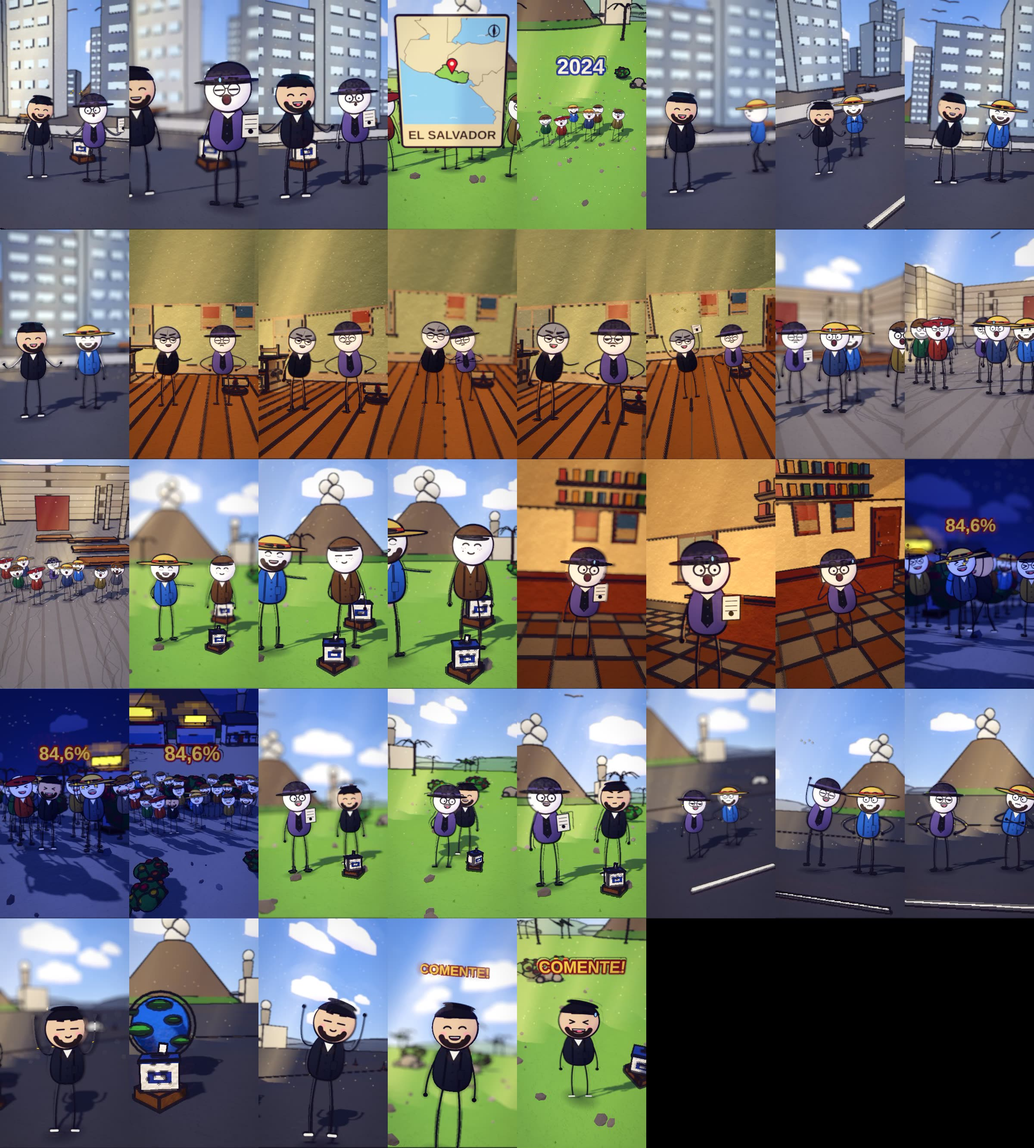
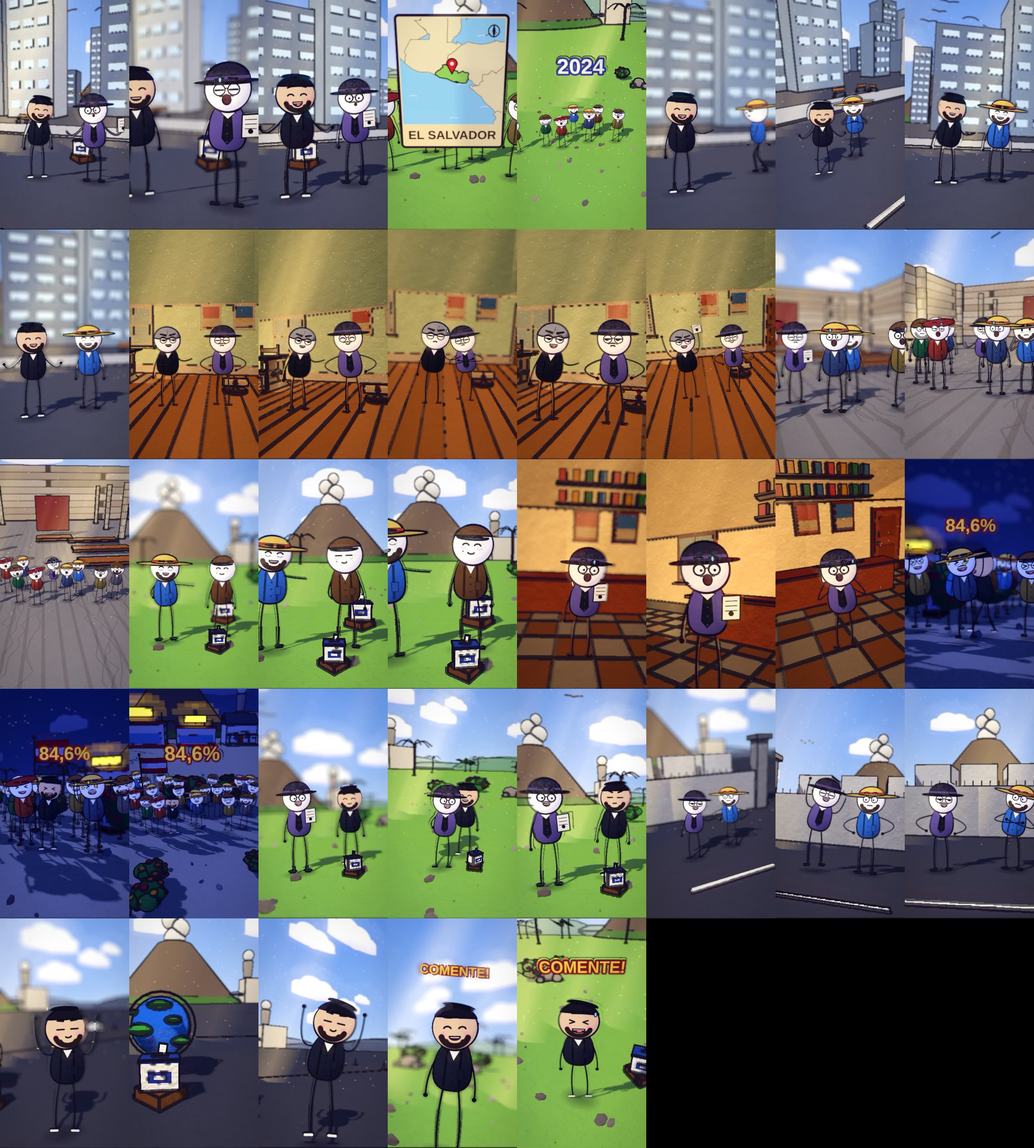
bukele2024: sem mastro; pendencias 4 e 5
Claude-Session: https://claude.ai/code/session_01HE8Dy2wiQov2uhW6ZYikBX

diff --git a/ferramenta-shorts/stories/bukele2024/cronograma.md b/ferramenta-shorts/stories/bukele2024/cronograma.md
@@ -30,13 +30,13 @@ N | Etapa | O que confere | Estado | Proximo passo
 5 | Voz | narracao neural gerada e tempos por palavra | FEITO | 
 6 | Estilo e enquadramento | autoajuste de luz/cor e ajuste de camera de cada tomada | FEITO | 
 7 | Gates | camera OK, todas as tomadas OK, estilo OK | FEITO | 
-8 | Storyboard e grade de acoes | video inteiro em quadros + 1 quadro no instante de cada acao | PENDENTE | 
-9 | Revisao escrita e aprovacao | uma linha por frase conferindo com a folha 3 e com o quadro da pesquisa | BLOQUEADO (etapa anterior pendente) | ./aprovar_storyboard.sh bukele2024
+8 | Storyboard e grade de acoes | video inteiro em quadros + 1 quadro no instante de cada acao | FEITO | 
+9 | Revisao escrita e aprovacao | uma linha por frase conferindo com a folha 3 e com o quadro da pesquisa | PENDENTE | ./aprovar_storyboard.sh bukele2024
 10 | Render | todos os quadros renderizados nesta versao das folhas | BLOQUEADO (etapa anterior pendente) | 
 11 | Montagem e som | trechos + voz + musica + efeitos; volume normalizado | BLOQUEADO (etapa anterior pendente) | 
 12 | Conferencia | conferir.sh sem falha e folha de contato olhada | BLOQUEADO (etapa anterior pendente) | ./conferir.sh bukele2024
 13 | Auditoria das acoes | 1 quadro do mp4 em cada palavra de acao | BLOQUEADO (etapa anterior pendente) | bash auditar_acoes.sh local bukele2024 <mp4>
 14 | Entrega | mp4 original 1080x1920 enviado; commit e push | BLOQUEADO (etapa anterior pendente) | 
 
-**Etapa atual:** 8. Storyboard e grade de acoes
+**Etapa atual:** 9. Revisao escrita e aprovacao
 

diff --git a/ferramenta-shorts/pendencias_motor/A_bukele2024.md b/ferramenta-shorts/pendencias_motor/A_bukele2024.md
@@ -2,3 +2,6 @@
 1. mkvideo.py linha ~162: regex hospital tem `leito` sem \b -> "eleitores" vira interior hospital (cena b8 "motivo mais citado pelos eleitores"). Corrigido no roteiro com interior:false, mas qualquer roteiro com "eleitores/eleitor" sofre. Usar \bleito\b.
 2. mkvideo.py linha ~268: "el salvador|san salvador" poe kit/volcano em TODAS as cenas do video (aparece atras em eleicao/comemoracao/comente). Deveria so' entrar na cena que cita o lugar.
 3. verificar_execucao: beat com set == set do video (apos v13 jungle->loc_campo) esperava X_loc_campo; contornei pondo set do video = loc_campo.
+4. kit/flag_pole sai com bandeira vermelha/branca (nao e' a de El Salvador azul/branca); retirei do roteiro. Ferramenta deveria aceitar cor/pais da bandeira.
+5. b8 ("queda no numero de assassinatos"): sem como mostrar pela ferramenta; fica cena abstrata (urna + vulcao fora de lugar). Preciso de orientacao: usar "hud" com contador?
+Estado: bukele2024 PARADO no storyboard (AGUARDA), nao aprovado, ate a principal responder sobre 2 e 5.
